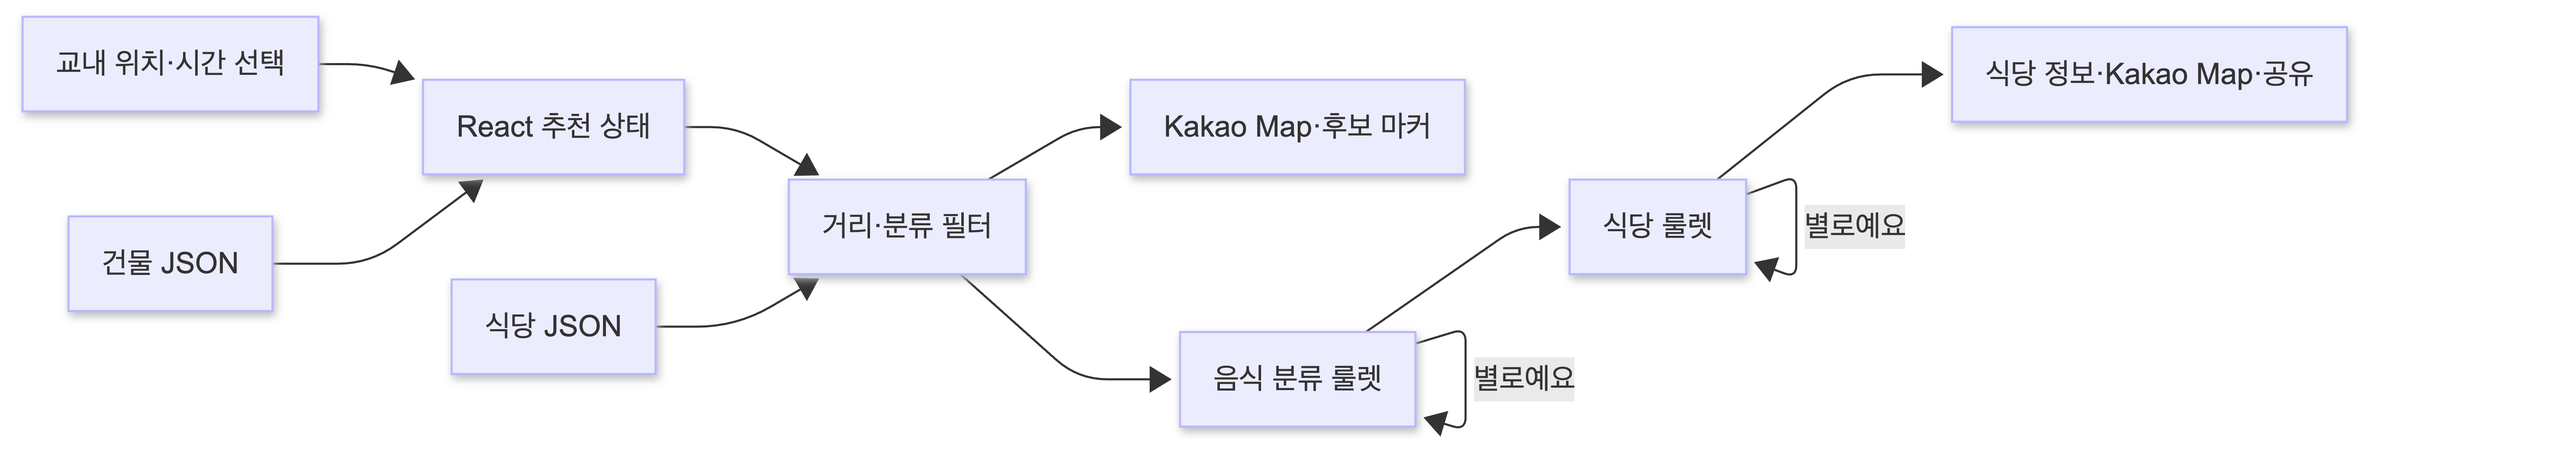
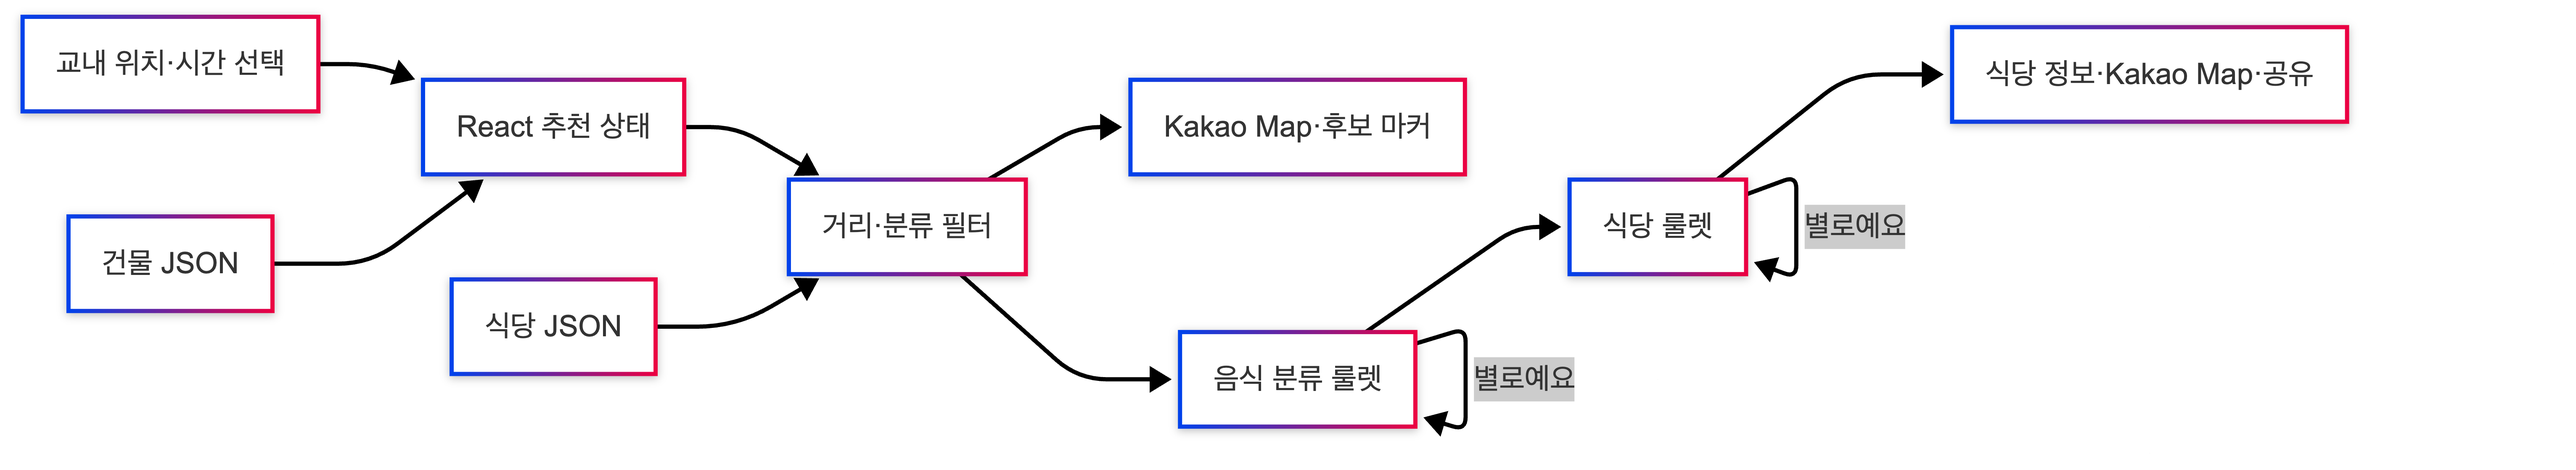
docs: readme 내부 이미지 디자인 통일

diff --git a/src/content/experience/projects/03-signahand/index.md b/src/content/experience/projects/03-signahand/index.md
@@ -34,7 +34,9 @@ stack:
 
 ### 주요 데이터 흐름
 
-![image-20260725151525333](./image-20260725151525333.png)
+![](./user-flow.png)
+
+![](./feature-flow.png)
 
 ---
 
